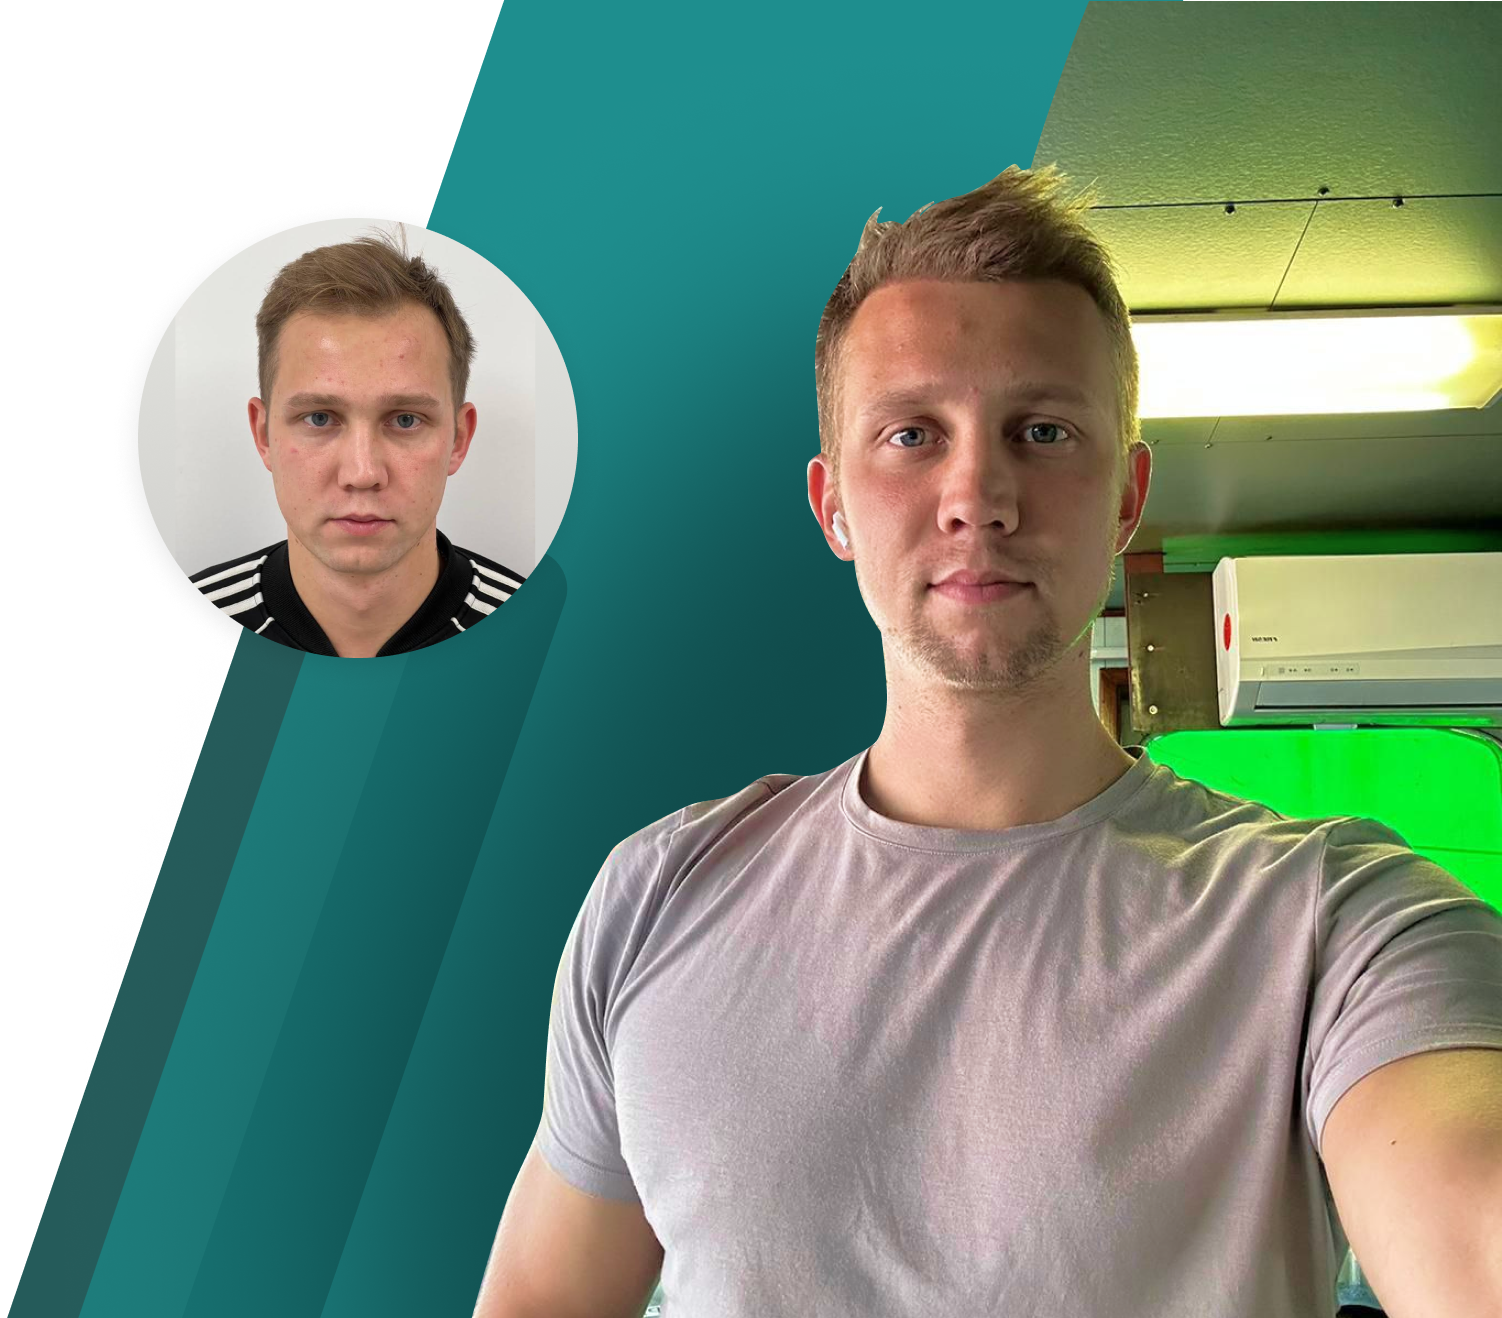
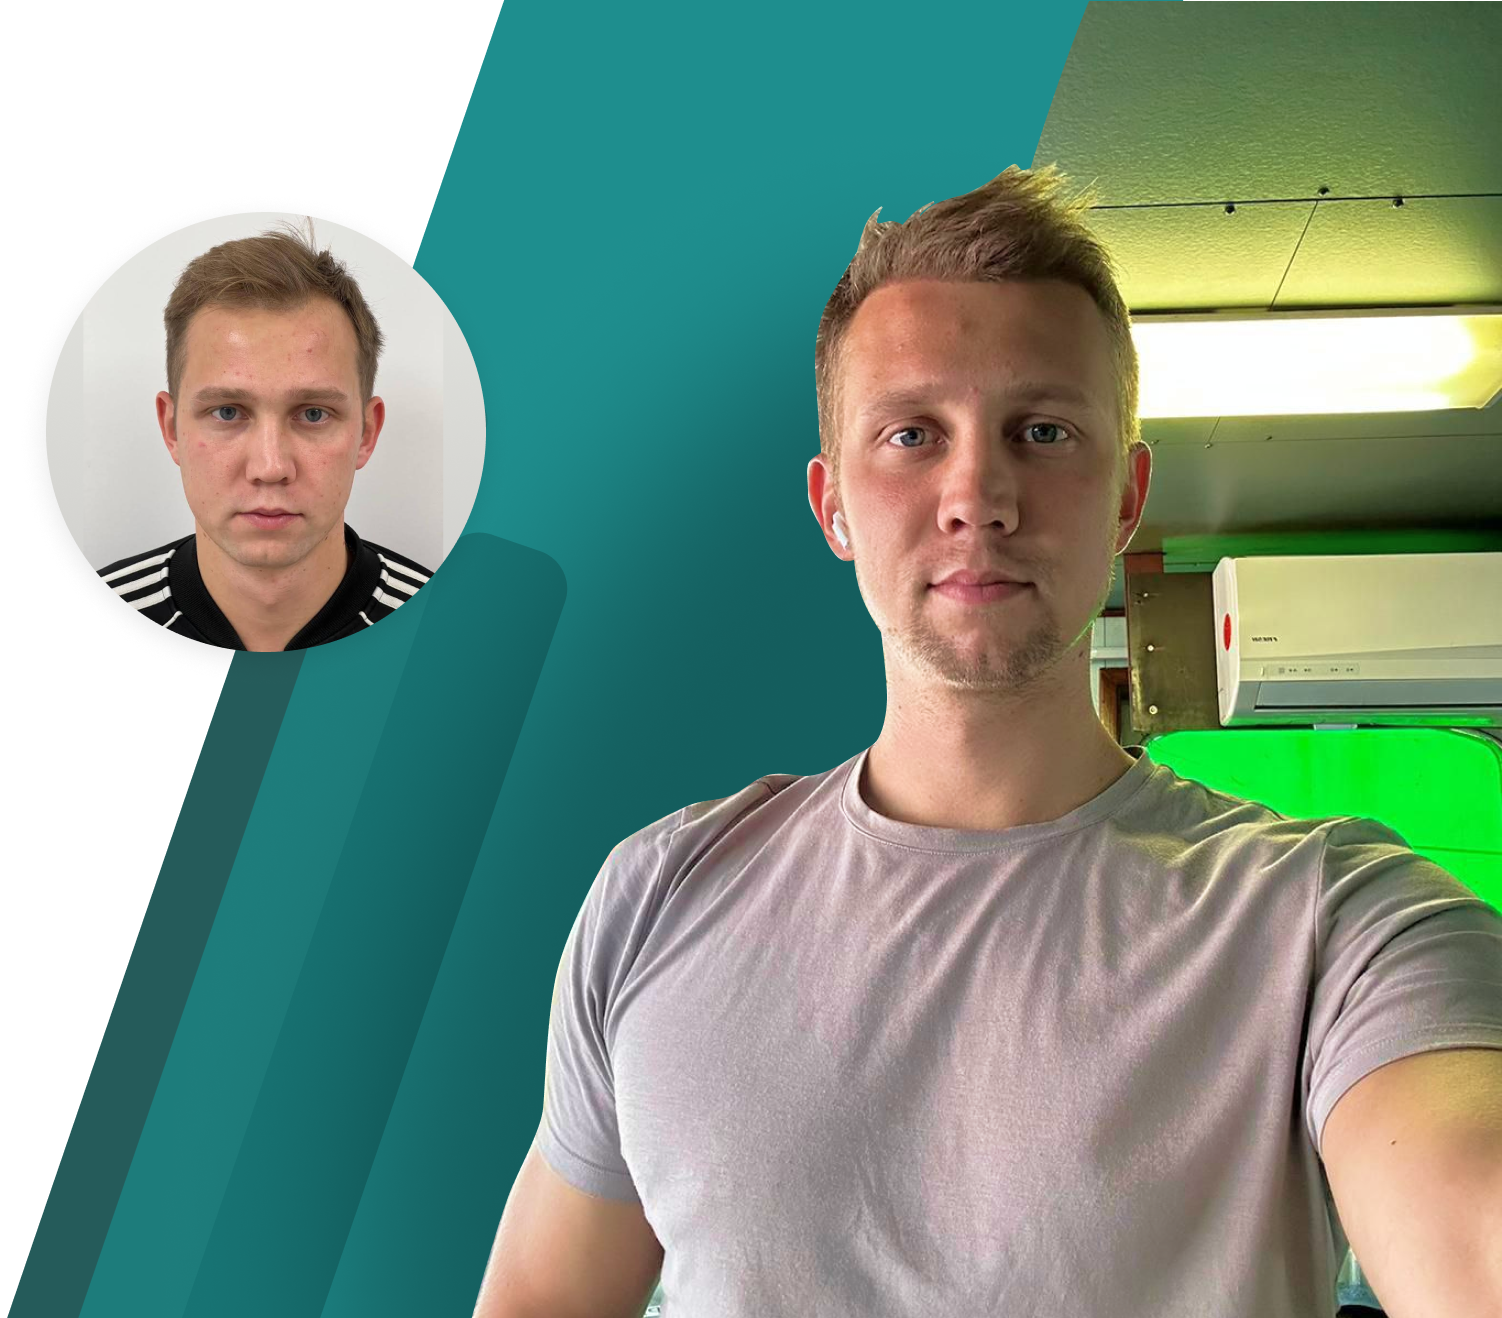
виправиви помилки

Changed region(s): [[0.0306, 0.1555, 0.3981, 0.4977]]

diff --git a/src/index.html b/src/index.html
@@ -62,11 +62,7 @@
 											<div class="swiper-slide overflow-hidden bg-black">
 												<div class="promo-slide">
 													<div class="label-before">Before</div>
-													<div
-														class="label-after sm:right-[.8rem] sm:top-[1rem]"
-													>
-														After
-													</div>
+													<div class="label-after">After</div>
 													<div
 														class="image h-full w-full absolute right-0 top-0"
 													>
@@ -295,7 +291,8 @@
 								<div
 									class="text-main text-s font-normal flex justify-center items-center mb-14"
 								>
-									More
+									Less
+									<div>More</div>
 									<span
 										class="icon-arrow_s block text-20 ml-8 -rotate-90"
 									></span>
@@ -875,7 +872,7 @@
 								>
 									2 step
 								</div>
-								<div class="font-bold">Online Consultation</div>
+								<div class="font-bold">Date confirmation</div>
 							</div>
 							<div
 								class="min-h-[.8rem] sm:min-h-[.96rem] rounded-sm bg-[#595959] pl-[.68rem] sm:pl-[.6rem] py-24 sm:py-32 pr-24 sm:pr-32 relative text-20 w-full h-max"

diff --git a/src/scss/tailwind/index.scss b/src/scss/tailwind/index.scss
@@ -10,9 +10,9 @@
 		@apply w-full lg:w-[7.4rem] sm:w-[6.4rem] lg:h-[6.6rem] sm:h-[5.6rem] h-[3.8rem] ml-auto size-full relative;
 	}
 	.label-before {
-		@apply absolute text-light-main sm:px-16 sm:py-12 px-8 py-4 rounded-sm  sm:-left-[.4rem] left-14 sm:top-[1.2rem] top-24 gradient-liable z-20 h5;
+		@apply absolute text-light-main sm:px-16 sm:py-12 px-8 py-4 rounded-sm  sm:-left-[.4rem] left-14 sm:top-[1.2rem] top-24  z-20 h5;
 	}
 	.label-after {
-		@apply absolute px-8 py-4 sm:px-16 sm:py-12 rounded-sm gradient-liable sm:right-[1.4rem] right-[.5rem] sm:top-[1.45rem] top-[.65rem] h5 z-20 h5;
+		@apply absolute px-8 py-4 sm:px-16 sm:py-12 rounded-sm  sm:right-[.8rem] right-[.5rem] sm:top-[2.2rem] top-[.65rem] h5 z-20 h5;
 	}
 }

diff --git a/src/scss/global.scss b/src/scss/global.scss
@@ -94,14 +94,27 @@
 }
 
 //main screen
-
-.gradient-liable {
-	background: linear-gradient(
-		259deg,
-		rgba(255, 255, 255, 0.5) 0%,
-		rgba(255, 255, 255, 0.13) 93.77%
-	);
+.label-before,
+.label-after {
 	box-shadow: 0px 10px 10px 0px rgba(0, 0, 0, 0.1);
+	overflow: hidden;
+	&::before {
+		content: '';
+		position: absolute;
+		background: linear-gradient(
+			259deg,
+			rgba(255, 255, 255, 0.5) 0%,
+			rgba(255, 255, 255, 0.13) 93.77%
+		);
+		backdrop-filter: blur(5px);
+		width: 100%;
+		height: 100%;
+		left: 0;
+		right: 0;
+		top: 0;
+		bottom: 0;
+		z-index: -1;
+	}
 }
 .gradient-youtube {
 	background: linear-gradient(
